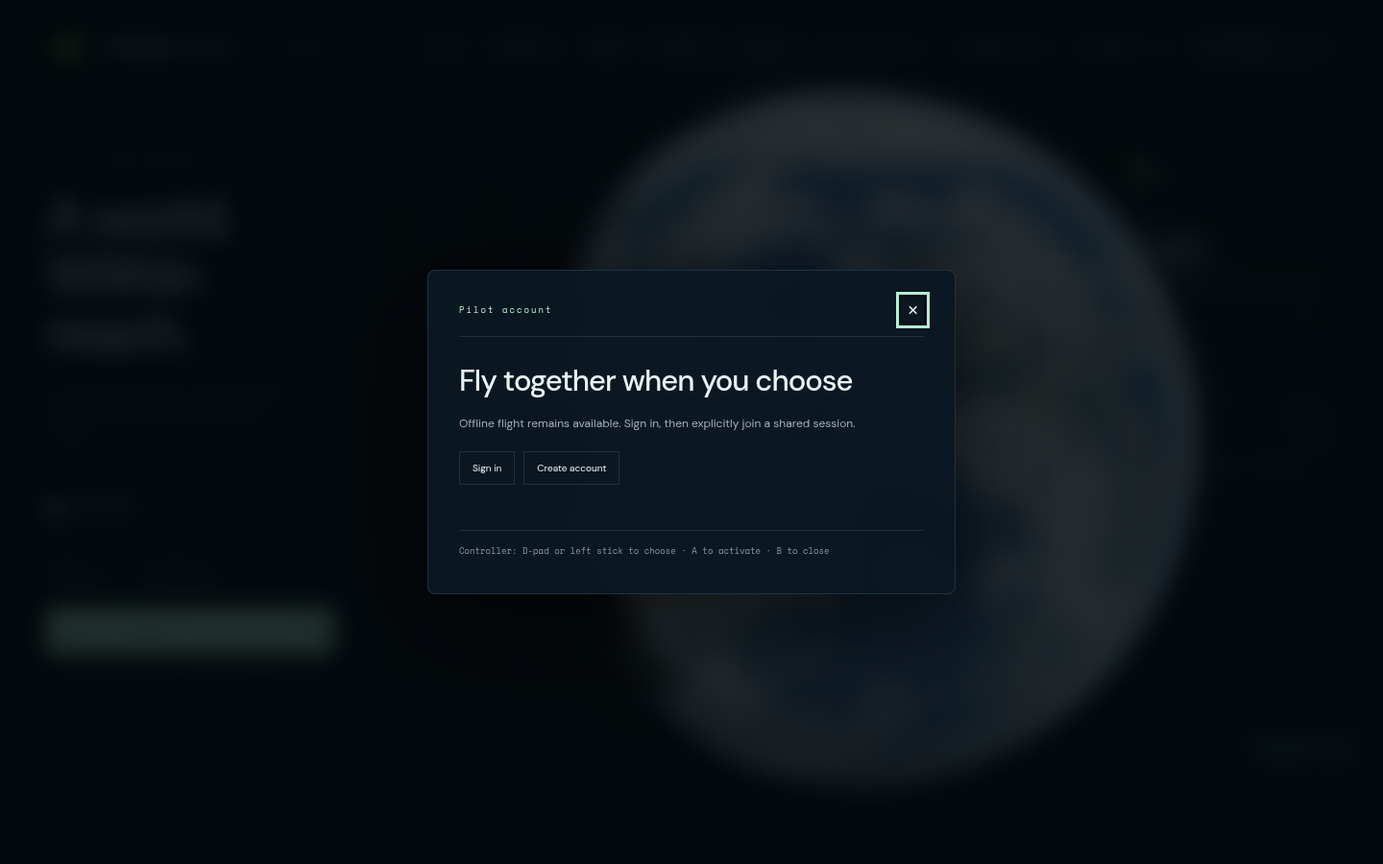
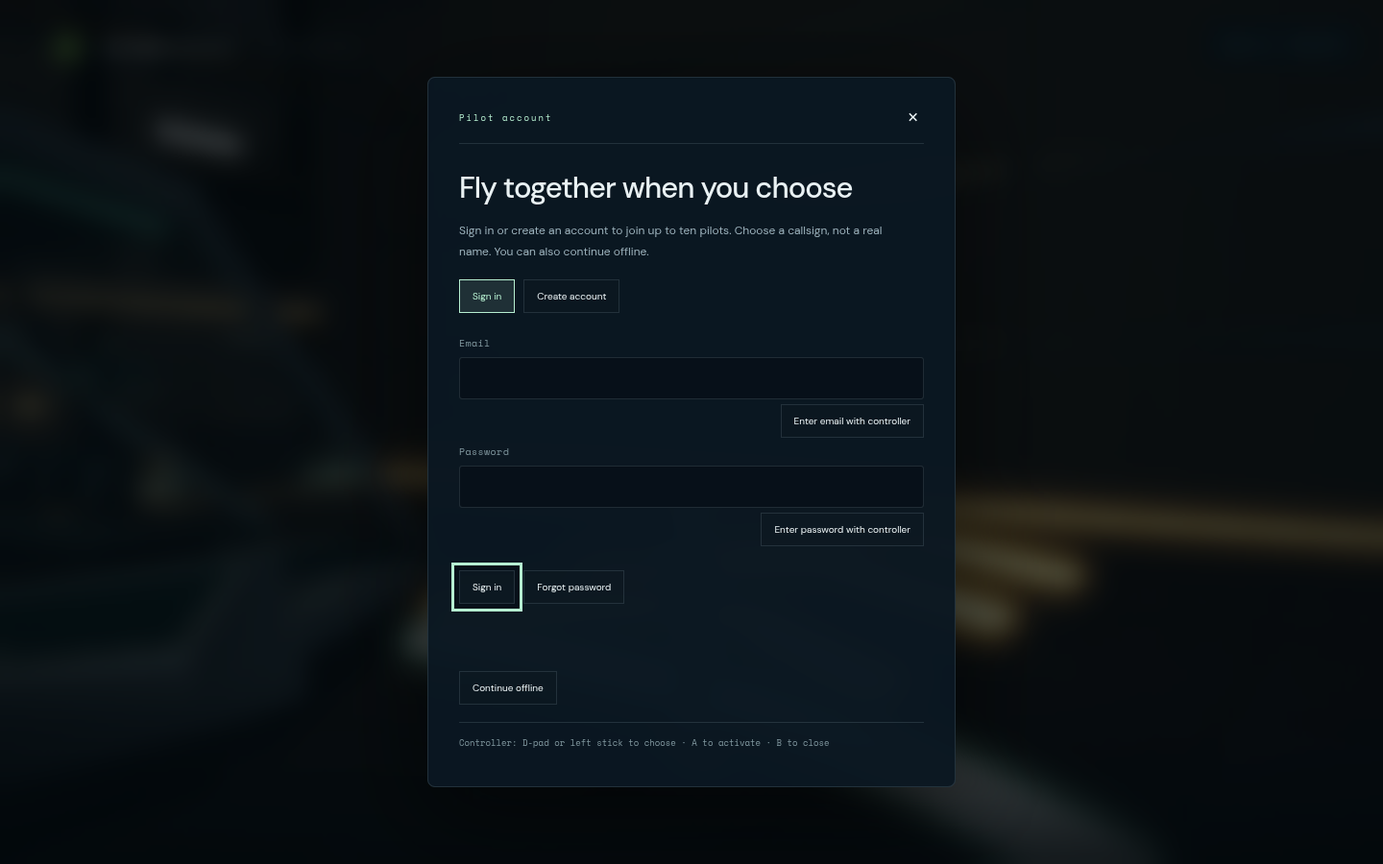
Fix multiplayer login entry and persistent account access

diff --git a/src/multiplayer/ui.js b/src/multiplayer/ui.js
@@ -138,6 +138,7 @@ export function createMultiplayerUI({ nav, client, onJoin = account => client.co
   let sessionAccount = state.account;
   let authView = resetToken ? 'reset' : 'login';
   let activeKeyboard = null;
+  let currentDialog = null;
   let busy = false;
   let disposed = false;
 
@@ -146,7 +147,7 @@ export function createMultiplayerUI({ nav, client, onJoin = account => client.co
   accountDialog.setAttribute('aria-labelledby', 'multiplayer-account-title');
   accountDialog.innerHTML = `<div class="dialog-top mp-dialog-top"><span class="eyebrow">Pilot account</span><button type="button" data-mp-close aria-label="Close account">✕</button></div>
     <h2 id="multiplayer-account-title">Fly together when you choose</h2>
-    <p class="mp-intro">Offline flight remains available. Sign in, then explicitly join a shared session.</p>
+    <p class="mp-intro">Sign in or create an account to join up to ten pilots. Choose a callsign, not a real name. You can also continue offline.</p>
     <nav class="mp-auth-tabs" aria-label="Account access">
       <button type="button" data-auth-view="login" data-controller-key="auth-login">Sign in</button>
       <button type="button" data-auth-view="register" data-controller-key="auth-register">Create account</button>
@@ -185,6 +186,7 @@ export function createMultiplayerUI({ nav, client, onJoin = account => client.co
     </form>
     <section class="mp-keyboard" hidden aria-label="Controller text entry"><div class="mp-keyboard-readout"><span data-keyboard-label>Text entry</span><output data-keyboard-output></output></div><div class="mp-keyboard-keys"></div><div class="mp-action-row"><button type="button" data-key-action="backspace" data-controller-key="keyboard-backspace">Backspace</button><button type="button" data-key-action="clear" data-controller-key="keyboard-clear">Clear</button><button type="button" data-key-action="done" data-controller-key="keyboard-done">Done</button></div></section>
     <p class="mp-feedback" role="status" aria-live="polite"></p>
+    <div class="mp-action-row"><button type="button" data-mp-continue data-controller-key="account-continue">Continue offline</button></div>
     <p class="mp-controller-note">Controller: D-pad or left stick to choose · A to activate · B to close</p>`;
 
   const commsDialog = document.createElement('dialog');
@@ -206,6 +208,11 @@ export function createMultiplayerUI({ nav, client, onJoin = account => client.co
     <p class="mp-controller-note">Transfers and drops are checked by the server against access, proximity, capacity, and manifest revision.</p>`;
 
   document.body.append(accountDialog, commsDialog, inventoryDialog);
+  // Outside the launcher: both the cinematic and player-active mode hide it.
+  const accessButton = document.createElement('button');
+  accessButton.id = 'multiplayer-access'; accessButton.type = 'button';
+  accessButton.setAttribute('aria-haspopup', 'dialog');
+  document.body.append(accessButton);
   const dialogs = [accountDialog, commsDialog, inventoryDialog];
   const feedback = dialog => dialog.querySelector('.mp-feedback');
   const currentAccount = () => state.account ?? sessionAccount;
@@ -259,6 +266,10 @@ export function createMultiplayerUI({ nav, client, onJoin = account => client.co
     join.hidden = state.connected; join.disabled = busy || !account;
     leave.hidden = !state.connected; leave.disabled = busy;
     accountDialog.querySelector('[data-logout]').disabled = busy;
+    accountDialog.querySelector('[data-mp-continue]').textContent = state.connected ? 'Return to flight' : 'Continue offline';
+    accessButton.textContent = state.connected ? 'COMMS' : account ? 'ACCOUNT' : 'SIGN IN / REGISTER';
+    accessButton.title = state.connected ? 'Multiplayer communications · controller Menu' : 'Pilot account · controller Menu';
+    accessButton.setAttribute('aria-controls', state.connected ? commsDialog.id : accountDialog.id);
   }
 
   function renderComms() {
@@ -368,15 +379,24 @@ export function createMultiplayerUI({ nav, client, onJoin = account => client.co
 
   function openDialog(dialog) {
     if (disposed || document.querySelector('dialog[open]')) return false;
-    stopNavigation(nav); render(); setFeedback(dialog, ''); dialog.showModal(); nav.gamepad?.suspend?.(); return true;
+    stopNavigation(nav); render(); setFeedback(dialog, ''); currentDialog = dialog; dialog.showModal(); nav.gamepad?.suspend?.(); return true;
   }
+  function finishDialog(dialog) {
+    // Native close events are queued. A pointer close must restore controls
+    // before the next key, without a late event clearing newly pressed input.
+    if (dialog.open || currentDialog !== dialog) return;
+    currentDialog = null; closeKeyboard(); restoreNavigation(nav);
+  }
+  function closeDialog(dialog) { dialog.close(); finishDialog(dialog); }
   const openAccount = (view = null) => { if (view) showAuthView(view); return openDialog(accountDialog); };
   const openComms = () => openDialog(commsDialog);
   const openInventory = () => openDialog(inventoryDialog);
+  accessButton.addEventListener('click', () => state.connected ? openComms() : openAccount());
+  accountDialog.querySelector('[data-mp-continue]').addEventListener('click', () => closeDialog(accountDialog));
 
   dialogs.forEach(dialog => {
-    dialog.querySelector('[data-mp-close]').addEventListener('click', () => dialog.close());
-    dialog.addEventListener('close', () => { closeKeyboard(); restoreNavigation(nav); });
+    dialog.querySelector('[data-mp-close]').addEventListener('click', () => closeDialog(dialog));
+    dialog.addEventListener('close', () => finishDialog(dialog));
   });
   accountDialog.addEventListener('click', event => {
     const viewButton = event.target.closest('[data-auth-view]'); if (viewButton) { showAuthView(viewButton.dataset.authView); return; }
@@ -420,7 +440,7 @@ export function createMultiplayerUI({ nav, client, onJoin = account => client.co
     if (event.target.closest('[data-cancel-hangar]')) void perform(commsDialog, 'Cancelling the hangar request…', () => client.cancelHangar());
     if (event.target.closest('[data-comms-join]')) void join(commsDialog);
     if (event.target.closest('[data-comms-leave]')) void leave(commsDialog);
-    if (event.target.closest('[data-open-account]')) { commsDialog.close(); queueMicrotask(() => openAccount()); }
+    if (event.target.closest('[data-open-account]')) { closeDialog(commsDialog); queueMicrotask(() => openAccount()); }
   });
 
   inventoryDialog.addEventListener('click', event => {
@@ -460,6 +480,6 @@ export function createMultiplayerUI({ nav, client, onJoin = account => client.co
     auth, dialogs: { account: accountDialog, comms: commsDialog, inventory: inventoryDialog },
     openAccount, openComms, openInventory, refreshSession,
     render: applyState,
-    dispose() { disposed = true; unsubscribe(); dialogs.forEach(dialog => dialog.remove()); },
+    dispose() { disposed = true; unsubscribe(); accessButton.remove(); dialogs.forEach(dialog => dialog.remove()); },
   };
 }

diff --git a/src/main.js b/src/main.js
@@ -62,6 +62,7 @@ function notify(message){$('toast').textContent=message;$('toast').classList.add
 function fatal(message){document.body.classList.add('fatal');$('loading').classList.remove('hidden');$('loading').querySelector('p').textContent='FLIGHT SYSTEM OFFLINE';$('loading').querySelector('span').textContent=message;}
 
 try {
+  const multiplayerEntry=import.meta.env.VITE_MULTIPLAYER_ENTRY==='1';
   const introEnabled=new URLSearchParams(location.search).get('intro')!=='0';
   const canvas=$('viewport');
   const renderer=new THREE.WebGLRenderer({canvas,antialias:false,logarithmicDepthBuffer:true,powerPreference:'high-performance'});
@@ -339,7 +340,7 @@ try {
   }});
   const graphicsButton=document.createElement('button');graphicsButton.type='button';graphicsButton.id='graphics-button';graphicsButton.textContent='GRAPHICS';graphicsButton.addEventListener('click',()=>graphicsSettings.open());document.querySelector('.top-actions').prepend(graphicsButton);
   for(const [label,open,secondary] of [['ACCOUNT',multiplayerUI.openAccount,true],['COMMS',multiplayerUI.openComms,false],['INVENTORY',multiplayerUI.openInventory,true]]){
-    const button=document.createElement('button');button.type='button';button.className=`mp-top-button${secondary?' mp-top-secondary':''}`;button.textContent=label;button.addEventListener('click',open);document.querySelector('.top-actions').prepend(button);
+    const button=document.createElement('button');button.type='button';button.className=`mp-top-button${secondary?' mp-top-secondary':''}`;button.textContent=label;button.addEventListener('click',()=>open());document.querySelector('.top-actions').prepend(button);
   }
   const gearNotice=document.createElement('div');gearNotice.id='gear-flight-prompt';gearNotice.setAttribute('role','status');gearNotice.hidden=true;document.body.append(gearNotice);
   const utilityStatus=document.createElement('div');utilityStatus.id='ship-utility-status';document.querySelector('.telemetry').append(utilityStatus);
@@ -350,7 +351,15 @@ try {
     {id:'camera-view',label:'Camera view · 4 / LB+RB + →',activate:()=>document.getElementById('camera-button').click(),enabled:()=>['flight','walk','landed'].includes(nav.mode)},
     {id:'account',label:'Pilot account',activate:()=>multiplayerUI.openAccount()},{id:'comms',label:'Multiplayer comms',activate:()=>multiplayerUI.openComms()},{id:'server-inventory',label:'Server inventory',activate:()=>multiplayerUI.openInventory(),enabled:()=>multiplayer.connected},
     {id:'graphics',label:'Graphics · LB+RB + Menu',activate:()=>graphicsSettings.open()},{id:'crash-recover',label:'Return to orbit after crash',activate:()=>transit('orbit'),enabled:()=>nav.mode==='crashed'},{id:'fleet',label:'Fleet registry',activate:()=>fleetUI.openMenu(),enabled:()=>!multiplayer.connected},{id:'power',label:'Toggle ship main power',activate:()=>nav.togglePower(),enabled:()=>nav.canTogglePower},...Object.entries(WEAPONS).map(([id,p])=>({id:`weapon-${id}`,label:`Ship weapon · ${p.label}`,activate:()=>flightEffects.select(id),enabled:()=>nav.mode==='flight'&&!multiplayer.connected}))],openBackpack:()=>multiplayer.connected?multiplayerUI.openInventory():localOpenPack(),toggleTool:()=>multiplayer.connected?multiplayerUI.openInventory():miningTool.toggle(),openEquipment:()=>multiplayer.connected?multiplayerUI.openInventory():localOpenEquipment(),cycleEquipment:()=>multiplayer.connected?multiplayerUI.openInventory():miningTool.cycle(),cycleQuick:()=>{if(multiplayer.connected){multiplayerUI.openInventory();return;}const r=loadout.selectQuick((loadout.state.quickIndex+1)%4);if(!r.ok)nav.notify(r.message);},useQuick:()=>multiplayer.connected?multiplayerUI.openInventory():useQuick(loadout.state.quickIndex),destinations:[...document.querySelectorAll('#quick-transit-menu [data-destination]')].map(button=>({id:button.dataset.destination,label:button.dataset.destination==='moon'?'Selene':button.dataset.destination==='ring'?'Selene rings':button.textContent.trim(),activate:()=>transit(button.dataset.destination),enabled:()=>!button.disabled&&!multiplayer.connected})).concat(resourceRoutes.map(route=>({id:route.id,label:route.label,activate:()=>transit(route.id),enabled:()=>!multiplayer.connected})))});
-  nav.onControllerInput=(pad,dt)=>{if(!firstReady||nav.openingActive)return;if(systemMap.open){systemMap.controllerInput(pad.ui);return;}if(pad.pressed.has(14)&&nav.mode==='flight'){systemMap.openMap();return;}controllerUI.update(pad,dt);flightEffects.controller(pad);};
+  nav.onControllerInput=(pad,dt)=>{
+    if(!firstReady)return;
+    if(systemMap.open){systemMap.controllerInput(pad.ui);return;}
+    // Account dialogs pause the intro but still need the shared modal router.
+    if(document.querySelector('dialog[open]')){controllerUI.update(pad,dt);return;}
+    if(nav.openingActive){if(pad.pressed.has(9))multiplayerUI.openAccount();return;}
+    if(pad.pressed.has(14)&&nav.mode==='flight'){systemMap.openMap();return;}
+    controllerUI.update(pad,dt);flightEffects.controller(pad);
+  };
   const systemsHelp=document.createElement('button');systemsHelp.type='button';systemsHelp.textContent='Ship systems / Graphics';systemsHelp.addEventListener('click',()=>{closeHelp();controllerUI.open();});document.querySelector('.menu-actions').append(systemsHelp);
   const menuButton=document.createElement('button');menuButton.id='commands-button';menuButton.type='button';menuButton.textContent='MENU';menuButton.title='Command menu · controller Menu';menuButton.addEventListener('click',()=>controllerUI.open());document.querySelector('.top-actions').prepend(menuButton);
   for(const button of document.querySelectorAll('#quick-transit-menu [data-destination]'))button.addEventListener('click',event=>{
@@ -503,6 +512,7 @@ try {
         releaseLoadingKeys();
         $('loading-status').textContent='Ready to explore';$('loading-progress').value=preload.state.total;
         $('loading').classList.add('hidden');
+        if(multiplayerEntry)multiplayerUI.openAccount();
       }
     }
     if(planet.error)stopGraphics(planet.error);

diff --git a/scripts/multiplayer.spec.js b/scripts/multiplayer.spec.js
@@ -50,13 +50,12 @@ async function setup(page, errors) {
     window.multiplayerPad = { id: 'Automated standard Xbox multiplayer', index: 0, connected: true, mapping: 'standard', axes: [0, 0, 0, 0], buttons: Array.from({ length: 17 }, () => ({ pressed: false, value: 0 })) };
     Object.defineProperty(navigator, 'getGamepads', { value: () => [window.multiplayerPad] });
   });
-  await page.goto('/?intro=0');
-  await expect(page.locator('.mp-top-button', { hasText: 'ACCOUNT' })).toBeVisible({ timeout: 30000 });
+  await page.goto('/');
   await expect.poll(() => page.evaluate(() => window.starAgent?.state.ready), { timeout: 90000 }).toBe(true);
+  await expect(page.locator('#multiplayer-account-dialog')).toBeVisible();
 }
 
 async function register(page, email, callsign, controllerJoin = false) {
-  await page.locator('.mp-top-button', { hasText: 'ACCOUNT' }).click();
   await page.locator('[data-auth-view=register]').click();
   await page.locator('#mp-register-email').fill(email);
   await page.locator('#mp-register-callsign').fill(callsign);
@@ -69,6 +68,56 @@ async function register(page, email, callsign, controllerJoin = false) {
   await expect.poll(() => page.evaluate(() => window.starAgent?.state.multiplayer.connected), { timeout: 30000 }).toBe(true);
   await page.locator('#multiplayer-account-dialog [data-mp-close]').click();
 }
+
+test('bare entry shows account access and keeps it reachable through the intro and play', async ({ browser }) => {
+  await mkdir(output, { recursive: true });
+  const context = await browser.newContext({ viewport: { width: 1440, height: 900 }, hasTouch: true });
+  const page = await context.newPage(), errors = [];
+  try {
+    await setup(page, errors);
+    await expect(page.locator('[data-auth-form=login]')).toBeVisible();
+    await expect(page.locator('[data-auth-view=register]')).toBeVisible();
+    await page.screenshot({ path: `${output}/bare-entry-desktop.png` });
+    const openingTime = await page.evaluate(() => window.starAgent.state.opening.elapsed);
+    await page.keyboard.down('KeyW'); await page.waitForTimeout(250); await page.keyboard.up('KeyW');
+    expect(await page.evaluate(() => window.starAgent.state.opening.elapsed)).toBe(openingTime);
+
+    await controllerFocus(page, 'auth-register'); await pulse(page, 0);
+    await expect(page.locator('[data-auth-form=register]')).toBeVisible();
+    // A held movement stick may navigate the dialog, but must not take control
+    // of the cinematic when B closes it. Release and press again to move.
+    await page.evaluate(() => { window.multiplayerPad.axes[1] = -1; });
+    await pulse(page, 1);
+    await expect(page.locator('#multiplayer-account-dialog')).not.toBeVisible();
+    await page.waitForTimeout(350);
+    expect(await page.evaluate(() => window.starAgent.state.opening.phase)).toBe('cinematic');
+    await page.evaluate(() => { window.multiplayerPad.axes[1] = 0; });
+    await page.waitForTimeout(250);
+    await pulse(page, 9);
+    await expect(page.locator('#multiplayer-account-dialog')).toBeVisible();
+    await controllerFocus(page, 'account-continue'); await pulse(page, 0);
+    await expect(page.locator('#multiplayer-account-dialog')).not.toBeVisible();
+
+    await page.locator('#multiplayer-access').click();
+    await page.locator('[data-mp-continue]').click();
+    // Pointer close followed immediately by movement must accept the first key.
+    await page.keyboard.down('KeyW'); await page.waitForTimeout(150); await page.keyboard.up('KeyW');
+    await expect.poll(() => page.evaluate(() => window.starAgent.state.opening.phase)).toBe('playing');
+    await expect(page.locator('.topbar')).not.toBeVisible();
+    await expect(page.locator('#multiplayer-access')).toBeVisible();
+    await page.locator('#multiplayer-access').press('Enter');
+    await expect(page.locator('#multiplayer-account-dialog')).toBeVisible();
+    await page.locator('[data-mp-continue]').click();
+    await page.setViewportSize({ width: 390, height: 844 });
+    await page.locator('#multiplayer-access').tap();
+    await expect(page.locator('[data-auth-form=register]')).toBeVisible();
+    expect(await page.evaluate(() => document.documentElement.scrollWidth <= innerWidth)).toBe(true);
+    await page.screenshot({ path: `${output}/bare-entry-phone.png` });
+    await page.locator('[data-mp-continue]').tap();
+    await expect(page.locator('#multiplayer-account-dialog')).not.toBeVisible();
+    expect(errors).toEqual([]);
+  } finally { await context.close(); }
+});
 
 test('two pilots join, request and dock at a hangar, transfer cargo and exchange movement', async ({ browser }) => {
   await mkdir(output, { recursive: true });

diff --git a/src/multiplayer/ui.css b/src/multiplayer/ui.css
@@ -1,4 +1,8 @@
 #multiplayer-account-dialog,#multiplayer-comms-dialog,#multiplayer-inventory-dialog{width:min(720px,calc(100vw - 28px));padding:28px 32px;color:inherit;background:var(--dialog-bg);border-color:var(--line)}
+#multiplayer-access{display:none;position:fixed;z-index:8;top:24px;right:24px;min-height:44px;padding:10px 15px;border-radius:3px;background:var(--dialog-solid);color:var(--mint);font:10px var(--mono);letter-spacing:1px}
+body.opening-active #multiplayer-access,body.player-active #multiplayer-access{display:block}
+body.photo-mode #multiplayer-access{display:none}
+@media(max-width:620px){#multiplayer-access{display:block;top:78px;right:18px}body.opening-active #multiplayer-access,body.player-active #multiplayer-access{top:16px}}
 .multiplayer-online #backpack-button,.multiplayer-online #loadout-bar{display:none}
 .mp-dialog-top{border-bottom:1px solid var(--line);padding-bottom:14px}.mp-intro{max-width:58ch}.mp-auth-tabs,.mp-action-row{display:flex;gap:9px;flex-wrap:wrap;margin:18px 0}.mp-auth-tabs button,.mp-action-row button,.mp-controller-edit,.mp-item-actions button,.mp-keyboard button{padding:10px 13px;font-size:10px}.mp-auth-tabs button[aria-pressed="true"],[data-join],[data-request-hangar]{border-color:var(--mint);background:color-mix(in srgb,var(--mint) 12%,transparent);color:var(--mint)}
 [data-auth-form]{display:grid;grid-template-columns:minmax(0,1fr) auto;gap:7px 12px;margin-top:20px;padding-top:4px}[data-auth-form][hidden]{display:none}[data-auth-form]>label{grid-column:1/-1;font:10px var(--mono);color:var(--muted);letter-spacing:.4px}[data-auth-form] input{display:block;width:100%;margin-top:7px;padding:12px;color:inherit;background:var(--chart-bg);border:1px solid var(--line);border-radius:3px;font:14px 'DM Sans',sans-serif}[data-auth-form] input:focus-visible{outline:2px solid var(--mint);outline-offset:2px}.mp-controller-edit{grid-column:2;justify-self:end;margin-top:-2px}.mp-account-session{margin-top:20px}.mp-callout,.mp-hangar{padding:18px;border:1px solid var(--line);background:var(--chart-bg)}.mp-callout span,.mp-hangar>span,.mp-status-grid span{display:block;font:9px var(--mono);color:var(--muted);letter-spacing:.8px}.mp-callout strong,.mp-hangar strong{display:block;margin-top:7px;font:28px var(--numerals);font-weight:400;color:var(--mint)}

diff --git a/scripts/multiplayer.config.js b/scripts/multiplayer.config.js
@@ -9,6 +9,6 @@ export default defineConfig({
   },
   webServer: [
     { command: 'PUBLIC_ORIGIN=http://127.0.0.1:5301 STAR_AGENT_MEMORY=1 PORT=8086 npm run server', url: 'http://127.0.0.1:8086/api/health', reuseExistingServer: false, timeout: 30000 },
-    { command: 'MULTIPLAYER_SERVER=http://127.0.0.1:8086 npm run dev -- --host 127.0.0.1 --port 5301', url: 'http://127.0.0.1:5301', reuseExistingServer: false, timeout: 30000 },
+    { command: 'VITE_MULTIPLAYER_ENTRY=1 MULTIPLAYER_SERVER=http://127.0.0.1:8086 npm run dev -- --host 127.0.0.1 --port 5301', url: 'http://127.0.0.1:5301', reuseExistingServer: false, timeout: 30000 },
   ],
 });

diff --git a/docs/qa/multiplayer-browser.md b/docs/qa/multiplayer-browser.md
@@ -46,3 +46,54 @@ The public service uses its own database and hostname. The production play/next
 sites remain separate. SMTP delivery, physical controller hardware, a full
 controller-entered registration and the Opus visual/whole-scene quality review
 remain unverified; this is a review preview, not a main-branch acceptance claim.
+
+## Bare-URL account entry correction — 2026-09-07
+
+The earlier public check used `?intro=0` and missed a real entry problem: the
+normal cinematic made the topbar ACCOUNT button inert, and taking control hid
+that topbar. The topbar click also passed its PointerEvent as an account-view
+argument, hiding the login form until a tab was chosen. Both entry paths are now
+corrected. Dedicated builds use `VITE_MULTIPLAYER_ENTRY=1` to open the account
+screen after preload; ordinary builds keep optional account access. Continue
+offline preserves the station opening. A small account/comms button remains
+outside the dismissed launcher and works on narrow screens.
+
+Current local verification: `npm test` **496/496**, focused UI/Gamepad/startup/
+opening tests **40/40**, multiplayer browser tests **2/2 in 2.2 minutes**, and
+`VITE_MULTIPLAYER_ENTRY=1 npm run build` passes with the existing chunk warning.
+Both browser journeys now start at `/` with the default intro. The added journey
+checks visible sign-in/register, paused intro while typing, controller tab
+selection, held-stick suppression across B close, Menu reopen, Continue offline,
+keyboard movement into play, keyboard account activation after the launcher
+hides, and touch reopening at 390 × 844 without horizontal overflow. The two-pilot
+controller join/hangar/physical docking/inventory journey also passes from this
+entry. No page or console errors were collected. Chromium 151 / AMD 860M ANGLE;
+1440 × 900 and 390 × 844. No physical controller or performance claim.
+
+The first public recheck confirmed the entry form, then exposed a timing defect:
+a movement key sent immediately after clicking Continue offline arrived before
+the native dialog's queued close event restored navigation. Pointer closes now
+restore input synchronously, and a late close event cannot clear new input or
+interfere with a newly opened dialog. The entry browser regression includes that
+exact click → first-key transition, as well as controller-held input suppression.
+
+[Original bare entry with hidden account controls](multiplayer/bare-entry-before.png)
+records the pre-fix public scene at first-ready while the loading fade is still visible. The historical query-string verification above
+is retained to make its original coverage limit explicit.
+
+Final public verification on https://multiplayer.staragent.site/ confirms the
+account screen opens automatically, Create account exposes callsign/email/password,
+Continue offline accepts the first movement key, and the account button remains
+reachable after taking control. Touch reopening at 390 × 844 passes with no
+horizontal overflow. No page/console errors were collected. Reviewed evidence:
+
+- [Public default sign-in](multiplayer/public-account.png) — 1440 × 900.
+- [Account access after movement](multiplayer/public-account-access.png) — 1440 × 900.
+- [Public phone registration](multiplayer/public-register-phone.png) — 390 × 844.
+
+The public HTML matches the final dedicated build (SHA-256
[1 lines of base64/hex data omitted]
+Static files were updated without restarting the account/WebSocket service.
+
+The separate `?intro=0` entry was also checked: closing the automatic screen and
+clicking the topbar ACCOUNT button shows the login form immediately.

diff --git a/HANDOFF.md b/HANDOFF.md
@@ -1330,3 +1330,25 @@ rigidbody ship collisions and lag compensation remain follow-ups. Loose stacks
 are an inventory-list interaction and expire5min/restart; combat checkpoints10sec.
 Physical-controller/full controller text-entry, direct MFD pointer journey, Opus
 visual review and full quality/performance tour remain pending. Do not mark merged.
+
+## MULTIPLAYER ACCOUNT ENTRY — READY FOR REVIEW — 2026-09-07
+
+Root fixes the bare-URL login gap in this branch / PR44. Dedicated frontend builds
+must use VITE_MULTIPLAYER_ENTRY=1 npm run build: Sign in / Create account opens
+once preload is ready, with an explicit Continue offline route. A body-level
+SIGN IN / REGISTER, ACCOUNT or COMMS button remains reachable while the intro
+or player-active mode hides the launcher. Controller Menu opens the account
+screen during the intro; the shared dialog router stays active while it is paused.
+Topbar callbacks no longer pass PointerEvent as an account-view argument. Pointer
+close restores navigation synchronously and ignores late duplicate close events,
+so the first movement key is accepted without clearing fresh input.
+
+Validation: configured unit suite496/496; final focused UI/Gamepad/startup/opening
+40/40; final bare-URL and two-pilot browser journeys2/2 in2.2m. Both start with the
+intro enabled; includes held-stick suppression, immediate pointer-close → W,
+keyboard and phone touch reopen after movement, plus authenticated physical
+hangar approach/dock and inventory transfers. Build passes, existing chunk warning.
+No browser errors, Chromium151 / AMD860M ANGLE,1440x900 and390x844; no FPS claim.
+Public preview keeps its isolated service/DB and requires no API restart. PR44
+stays draft; existing SMTP, full controller text-entry/physical-device and quality
+review limits still apply. Other worktrees and play/next remain untouched.

diff --git a/docs/multiplayer.md b/docs/multiplayer.md
@@ -6,8 +6,13 @@ remain separate prerequisites/work in progress.
 
 ## Player flow
 
-Open **ACCOUNT**, register with a callsign, email and password, and choose **Join
-multiplayer**. No real-name field or suit editor exists. The room assigns one of
+On https://multiplayer.staragent.site/, the account screen opens automatically
+after loading. Choose **Create account**, register with a callsign, email and
+password, and choose **Join multiplayer**. **Continue offline** resumes the
+station intro without an account. A small **SIGN IN / REGISTER** or **ACCOUNT**
+button stays available during the intro and after movement dismisses the launcher;
+it becomes **COMMS** when connected. Controller **Menu** opens accounts during the
+intro and the command menu during play. No real-name field or suit editor exists. The room assigns one of
 ten suit colours. One account may occupy one slot; the eleventh simultaneous
 player is refused without disturbing the existing room.
 
@@ -52,6 +57,12 @@ npm test
 npm run test:multiplayer
 npm run build
 ```
+
+The dedicated multiplayer frontend enables automatic account entry with
+`VITE_MULTIPLAYER_ENTRY=1 npm run build`. Use the same environment variable with
+`npm run dev` to check that entry locally. Ordinary builds retain the offline
+opening and optional account access. The browser multiplayer configuration sets
+this flag and tests the bare URL, including its default intro.
 
 ## Authority and current limits
 

diff --git a/docs/controller-contract.md b/docs/controller-contract.md
@@ -189,3 +189,19 @@ shortcuts rearm. The Graphics chord is suppressed while unarmed rather than
 opening the ordinary command menu. Standard Menu remains available in paused help.
 The controller-only orbital and physical opening/boarding journeys in
 `flight-options.spec.js` and `opening.spec.js` now use these direct shortcuts.
+
+## Multiplayer account entry
+
+On the dedicated multiplayer build, the account dialog opens after loading.
+While the station intro is paused, D-pad/left stick and A/B use the normal dialog
+router. Menu reopens the account screen during the cinematic; after taking
+control, Menu → Pilot account retains the gameplay route. Continue offline closes
+the screen without joining or requiring an account. Held movement through dialog
+closure must be released before it can take control of the cinematic.
+
+`scripts/multiplayer.spec.js` starts at the bare URL with the intro enabled. It
+checks controller switching to Create account, B close with a held movement stick,
+Menu reopen, Continue offline, and physical movement into play. The two-pilot
+journey also starts there before registration, Join, COMMS and physical docking.
+Registration text is still entered with desktop controls; a full controller
+keyboard registration and physical-device testing remain separate checks.

diff --git a/docs/multiplayer-auth.md b/docs/multiplayer-auth.md
@@ -214,3 +214,9 @@ original database remain separate. Final integrated tests on Node22/PostgreSQL
 pass80/80; public HTTPS registration, session cookie, WSS join and hangar request
 also passed with the synthetic fixture subsequently removed. SMTP remains
 unconfigured. See `docs/qa/multiplayer-browser.md` for browser evidence and limits.
+
+Build the dedicated multiplayer frontend with
+`VITE_MULTIPLAYER_ENTRY=1 npm run build`. This opens sign-in after loading on the
+bare URL, while preserving an explicit Continue offline choice. Without this
+build flag, the regular offline intro remains the default. Deploy `dist/` to the
+candidate's static directory; a frontend-only change does not need an API restart.
